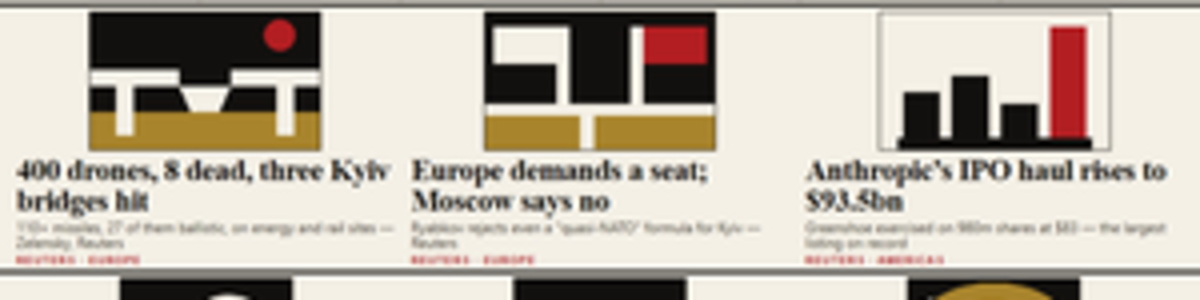
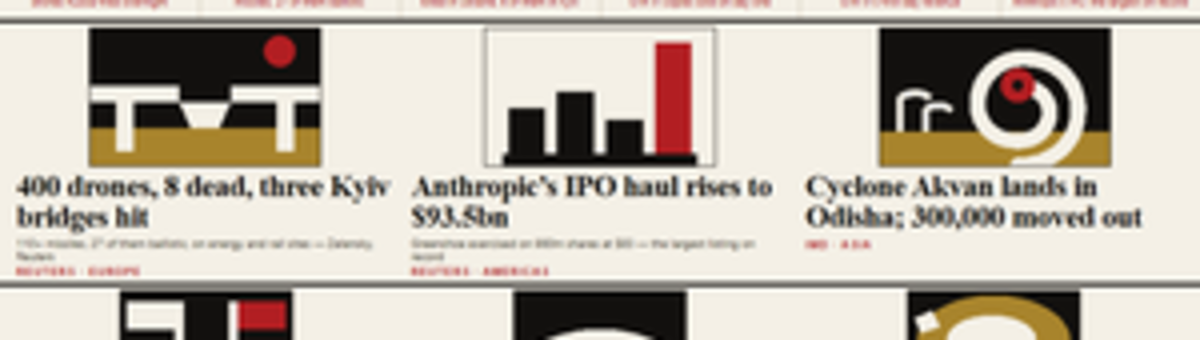
Kyiv, Anthropic and Akvan as the three leads; Europe demands demoted to the band

diff --git a/page.html b/page.html
@@ -105,19 +105,6 @@ html,body{width:1024px;height:1024px;overflow:hidden;background:#f4f0e6;color:#1
       <h2>400 drones, 8 dead, three Kyiv bridges hit</h2>
       <div class="deck">110+ missiles, 27 of them ballistic, on energy and rail sites — Zelensky, Reuters</div>
       <div class="ft">Reuters · Europe</div>
-    </div><div class="lead" data-region="Europe" data-beat="diplomacy" data-outlet="Reuters">
-      <div class="artbox" data-art="lecterns"><svg aria-label="Europe demands a seat; Moscow says no" viewBox="0 0 160 96" width="100%" height="100%" preserveAspectRatio="none" shape-rendering="crispEdges">
-  <rect x="0" y="0" width="160" height="96" fill="#12100e"/>
-  <rect x="0" y="72" width="160" height="24" fill="#a8842c"/>
-  <rect x="0" y="64" width="160" height="8" fill="#f4f0e6"/>
-  <rect x="66" y="68" width="10" height="28" fill="#f4f0e6"/>
-  <rect x="50" y="10" width="9" height="54" fill="#f4f0e6"/>
-  <rect x="101" y="10" width="9" height="54" fill="#f4f0e6"/>
-  <rect x="6" y="10" width="44" height="26" fill="#f4f0e6"/>
-  <rect x="110" y="10" width="44" height="26" fill="#b21e22"/></svg></div>
-      <h2>Europe demands a seat; Moscow says no</h2>
-      <div class="deck">Ryabkov rejects even a “quasi-NATO” formula for Kyiv — Reuters</div>
-      <div class="ft">Reuters · Europe</div>
     </div><div class="lead" data-region="Americas" data-beat="markets" data-outlet="Reuters">
       <div class="artbox" data-art="bars"><svg aria-label="Anthropic’s IPO haul rises to $93.5bn" viewBox="0 0 160 96" width="100%" height="100%" preserveAspectRatio="none" shape-rendering="crispEdges">
   <rect x="0" y="0" width="160" height="96" fill="#f4f0e6"/>
@@ -129,9 +116,7 @@ html,body{width:1024px;height:1024px;overflow:hidden;background:#f4f0e6;color:#1
       <h2>Anthropic’s IPO haul rises to $93.5bn</h2>
       <div class="deck">Greenshoe exercised on 980m shares at $83 — the largest listing on record</div>
       <div class="ft">Reuters · Americas</div>
-    </div></div>
-
-  <div class="band bandrow"><div class="card" data-region="Asia" data-beat="disaster" data-outlet="IMD">
+    </div><div class="lead" data-region="Asia" data-beat="disaster" data-outlet="IMD">
       <div class="artbox" data-art="cyclone"><svg aria-label="Cyclone Akvan lands in Odisha; 300,000 moved out" viewBox="0 0 160 96" width="100%" height="100%" preserveAspectRatio="none" shape-rendering="crispEdges">
   <rect x="0" y="0" width="160" height="96" fill="#12100e"/>
   <rect x="0" y="72" width="160" height="24" fill="#a8842c"/>
@@ -146,9 +131,24 @@ html,body{width:1024px;height:1024px;overflow:hidden;background:#f4f0e6;color:#1
   <path d="M14 48 q13 -6 21 1" stroke="#f4f0e6" stroke-width="5" fill="none"/>
   <path d="M32 72 L32 56" stroke="#f4f0e6" stroke-width="5"/>
   <path d="M32 56 q12 -5 18 2" stroke="#f4f0e6" stroke-width="5" fill="none"/></svg></div>
-      <div class="tag" style="color:#a8842c">ASI · disaster</div>
-      <h3>Cyclone Akvan lands in Odisha; 300,000 moved out</h3>
-      <div class="cft">IMD</div>
+      <h2>Cyclone Akvan lands in Odisha; 300,000 moved out</h2>
+      <div class="deck"></div>
+      <div class="ft">IMD · Asia</div>
+    </div></div>
+
+  <div class="band bandrow"><div class="card" data-region="Europe" data-beat="diplomacy" data-outlet="Reuters">
+      <div class="artbox" data-art="lecterns"><svg aria-label="Europe demands a seat; Moscow says no" viewBox="0 0 160 96" width="100%" height="100%" preserveAspectRatio="none" shape-rendering="crispEdges">
+  <rect x="0" y="0" width="160" height="96" fill="#12100e"/>
+  <rect x="0" y="72" width="160" height="24" fill="#a8842c"/>
+  <rect x="0" y="64" width="160" height="8" fill="#f4f0e6"/>
+  <rect x="66" y="68" width="10" height="28" fill="#f4f0e6"/>
+  <rect x="50" y="10" width="9" height="54" fill="#f4f0e6"/>
+  <rect x="101" y="10" width="9" height="54" fill="#f4f0e6"/>
+  <rect x="6" y="10" width="44" height="26" fill="#f4f0e6"/>
+  <rect x="110" y="10" width="44" height="26" fill="#b21e22"/></svg></div>
+      <div class="tag" style="color:#b21e22">EUR · diplomacy</div>
+      <h3>Europe demands a seat; Moscow says no</h3>
+      <div class="cft">Reuters</div>
     </div><div class="card" data-region="Africa" data-beat="migration" data-outlet="Al Jazeera">
       <div class="artbox" data-art="pirogue"><svg aria-label="Senegal boat capsizes, dozens missing" viewBox="0 0 160 96" width="100%" height="100%" preserveAspectRatio="none" shape-rendering="crispEdges">
   <rect x="0" y="0" width="160" height="96" fill="#12100e"/>
